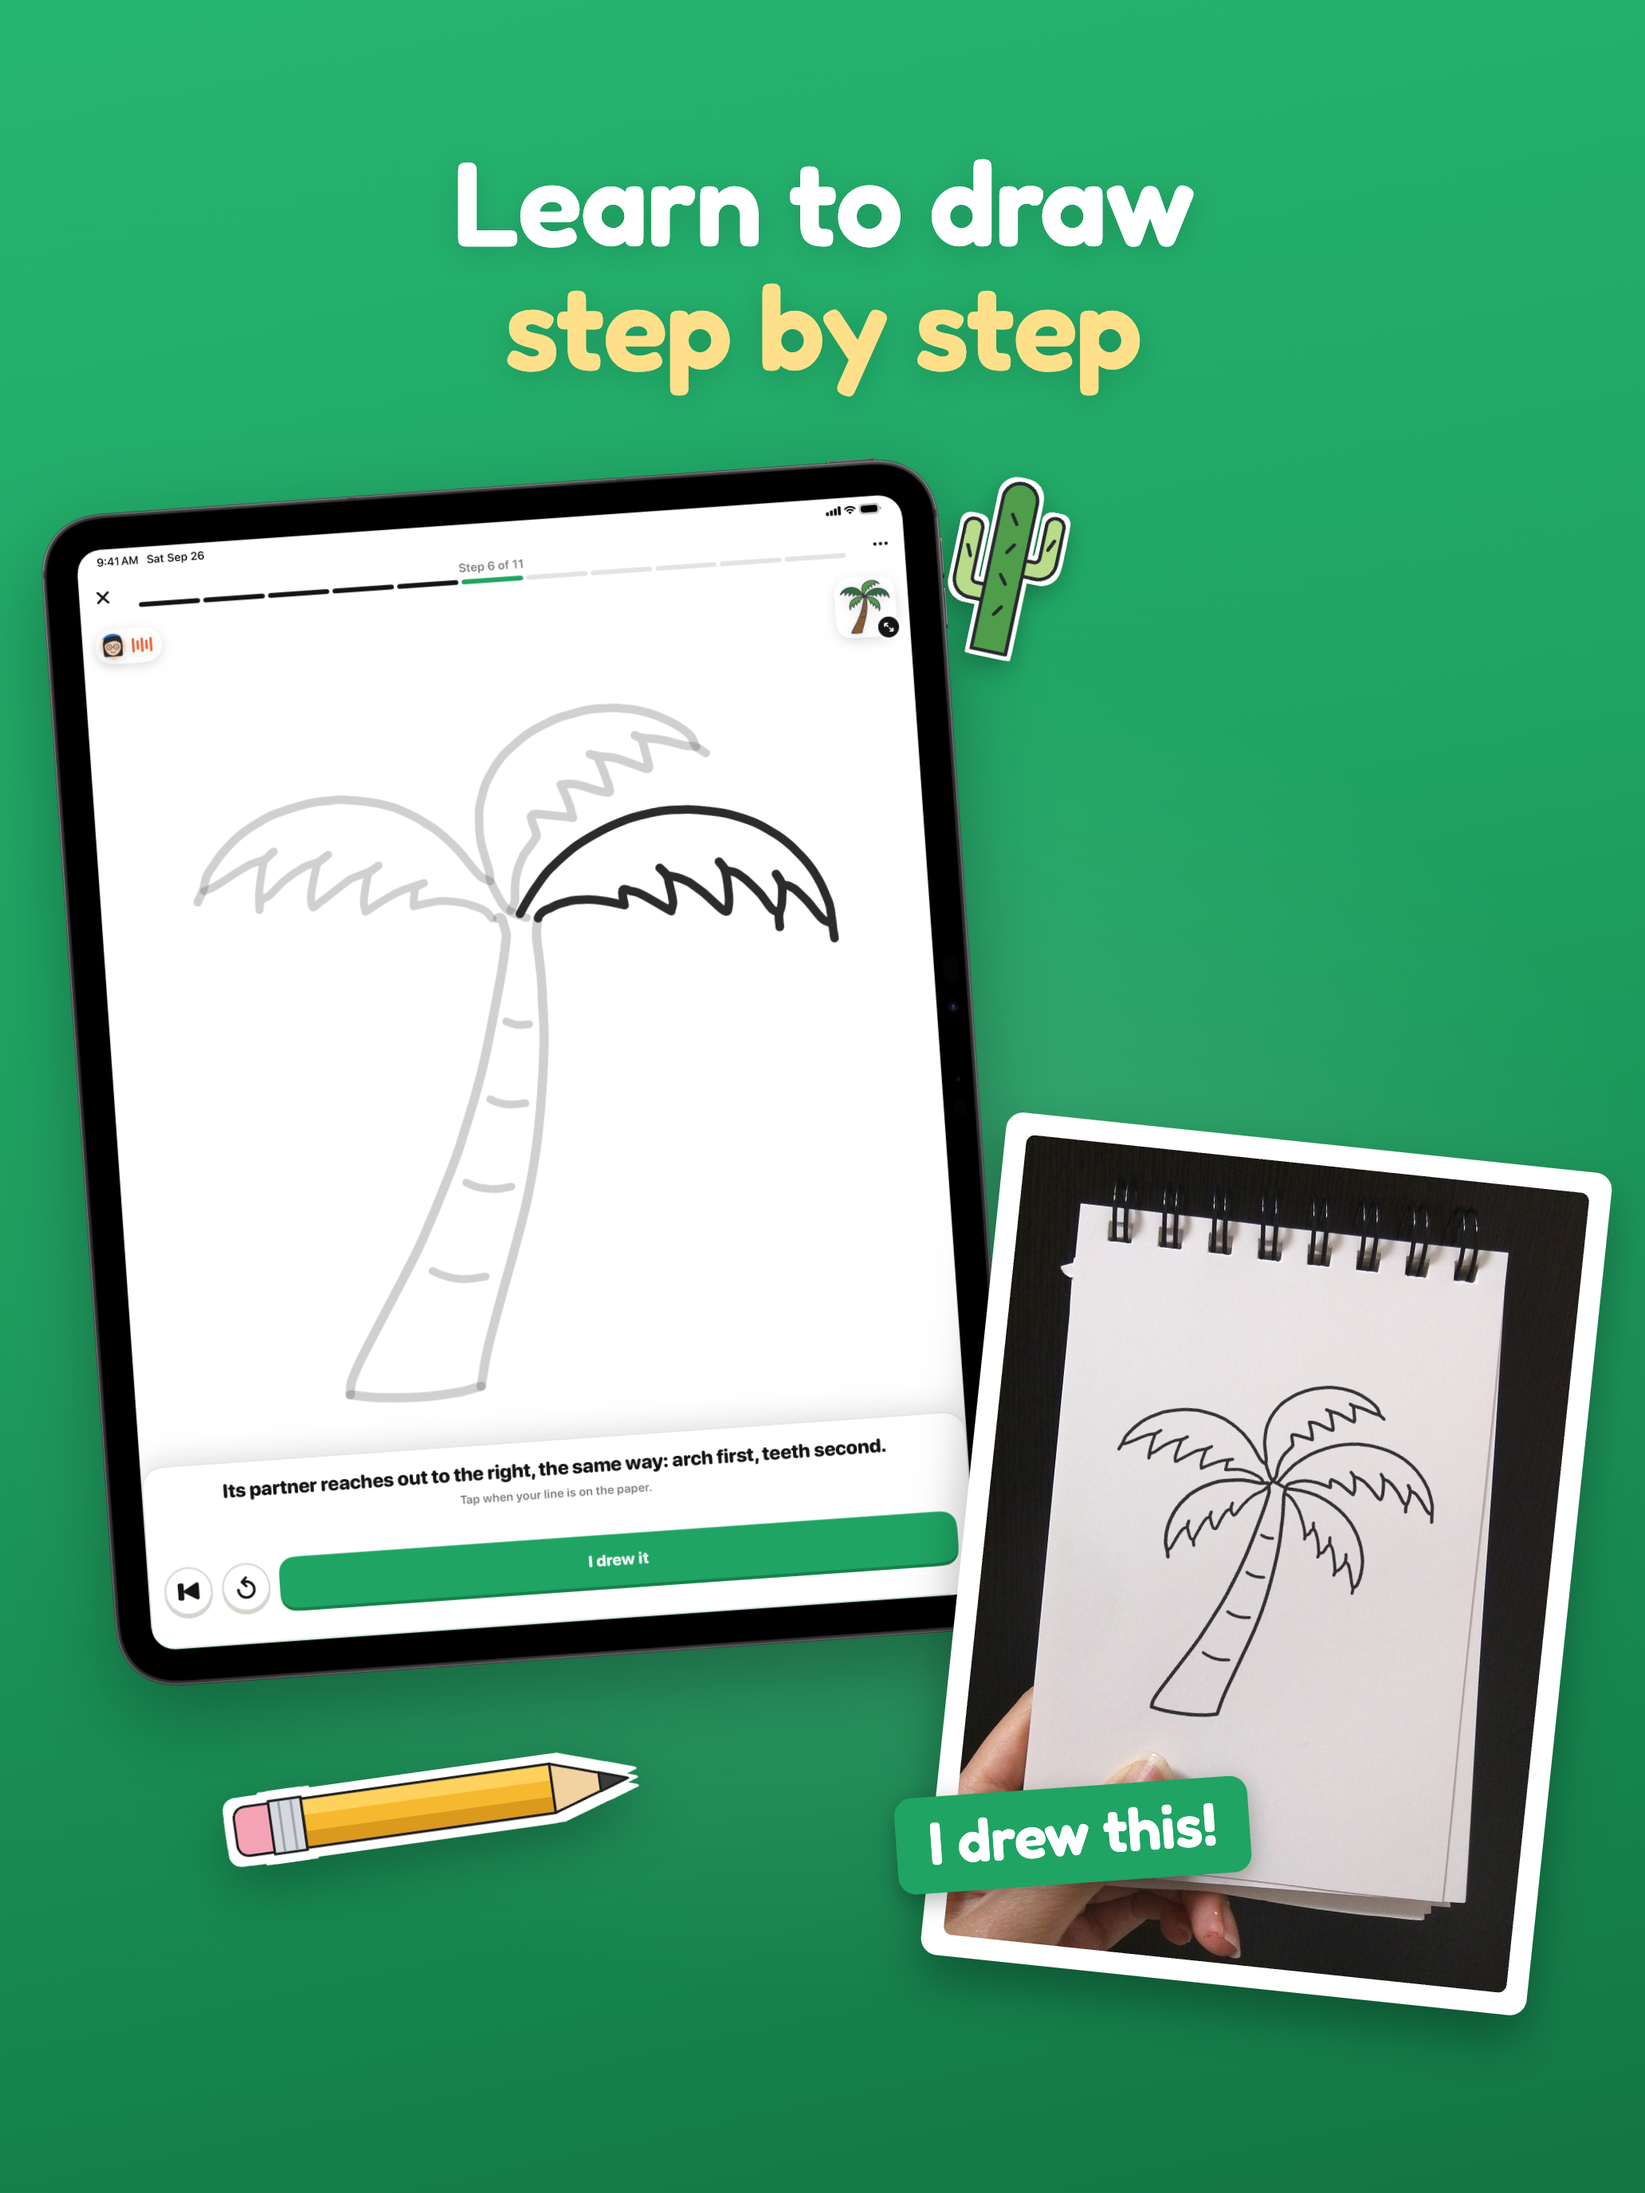
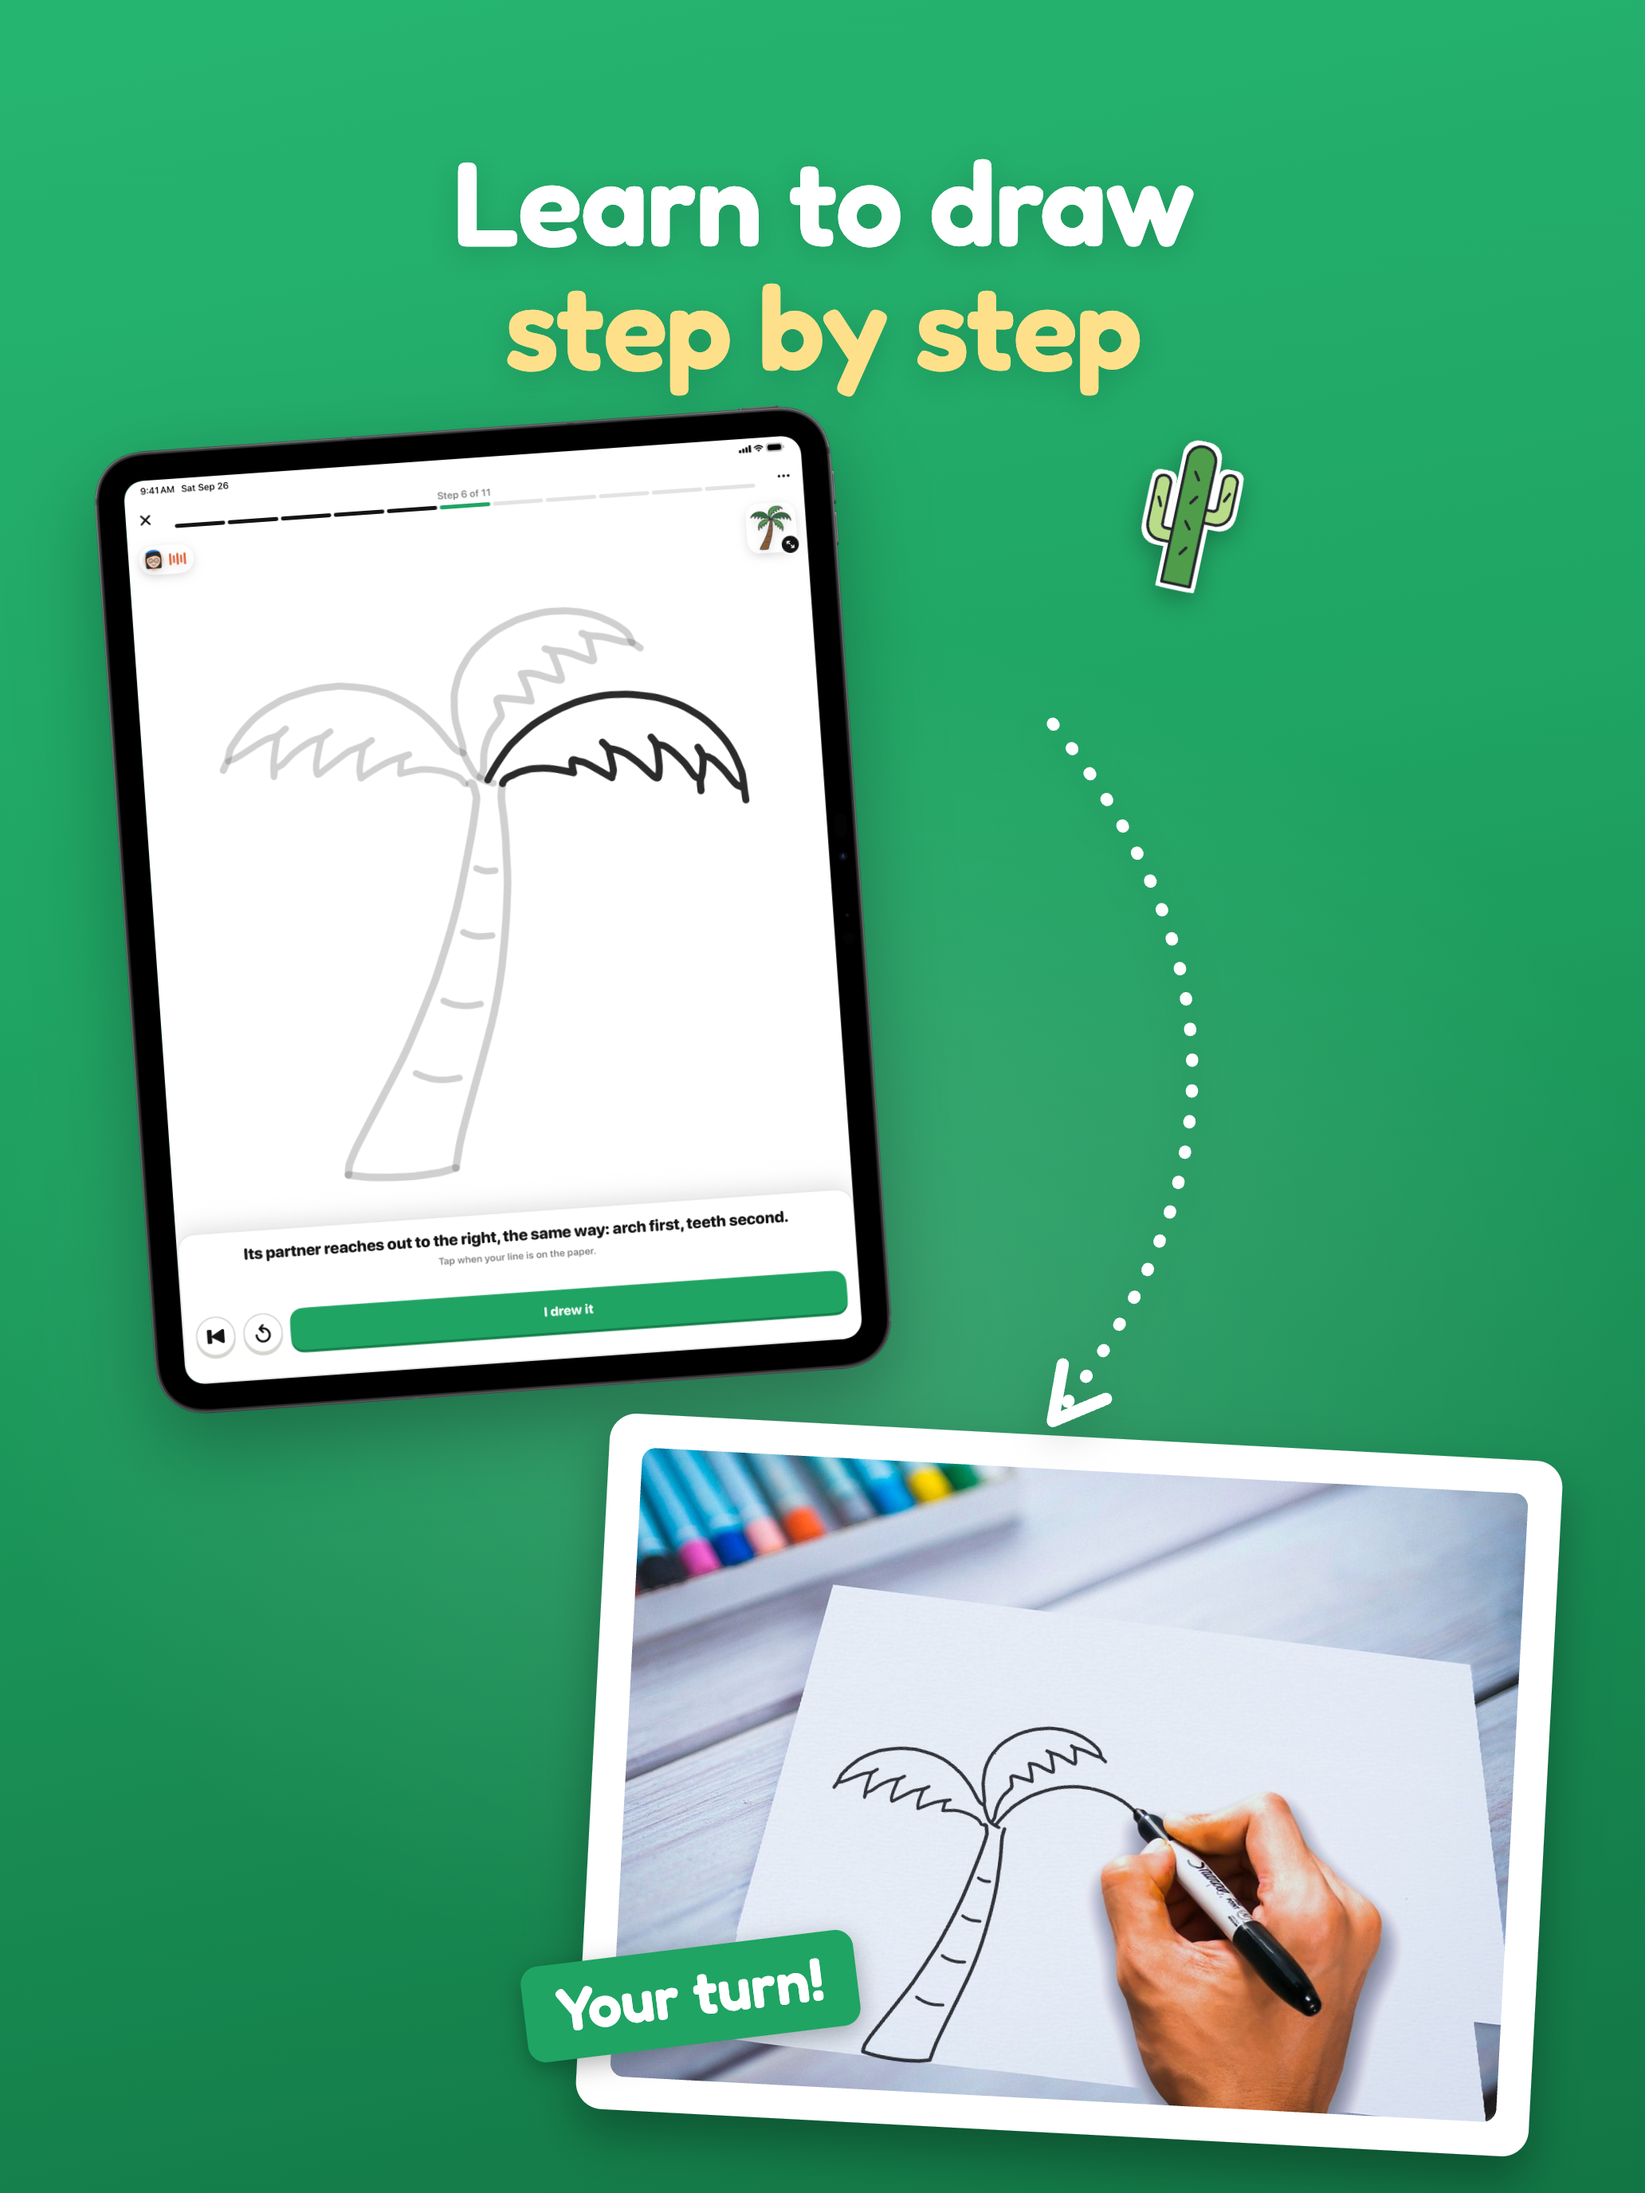
App Store art: the first shot shows a hand drawing the lesson
The print is now a hand with a marker on blank paper, drawing the palm tree as
far as the phone's step 6: the upper-right leaf's arch ends at the marker's
tip, so the phone shows the line and the hand draws it. A doodled arrow leads
from the phone to the paper and the tag reads "Your turn!". shots.html can now
draw a lesson up to a stroke part-way and anchor its end on a point of the
photo. Not uploaded yet: 1.0 is Waiting for Review.

diff --git a/docs/app-store/marketing/shots.html b/docs/app-store/marketing/shots.html
@@ -113,6 +113,7 @@
   const box = drawDevice();
   for (const st of shot.stickers ?? []) drawSticker(st, box);
   if (shot.card) await drawCard(shot.card);
+  if (shot.arrow) drawArrow(shot.arrow);
 
   await document.fonts.ready;
   await Promise.all(waits);
@@ -188,12 +189,28 @@
     const photo = image(card.photo, null, { left: px(-cx * scale), top: px(-cy * scale) });
     waits.push(photo.decode().then(() => { photo.style.width = px(photo.naturalWidth * scale); }));
     const d = card.drawing;
-    const size = d.size * scale;
-    const drawing = el('div', 'drawing', {
-      width: px(size), height: px(size),
-      left: px((d.cx - cx) * scale - size / 2), top: px((d.cy - cy) * scale - size / 2),
-    });
-    drawing.innerHTML = await lineArt(d.tutorial);
+    const art = await lineArt(d);
+    const drawing = el('div', 'drawing');
+    drawing.innerHTML = art.svg;
+    if (d.anchor) {
+      // The end of the line being drawn sits on the pen's tip; `scale` is photo
+      // pixels per lesson unit, and the drawing turns with the page about that point.
+      const unit = d.scale * scale;
+      const tipX = (d.anchor[0] - cx) * scale;
+      const tipY = (d.anchor[1] - cy) * scale;
+      Object.assign(drawing.style, {
+        width: px(art.width * unit), height: px(art.height * unit),
+        left: px(tipX - art.end.x * unit), top: px(tipY - art.end.y * unit),
+        transformOrigin: `${art.end.x * unit}px ${art.end.y * unit}px`,
+        transform: `rotate(${d.rot ?? 0}deg)`,
+      });
+    } else {
+      const size = d.size * scale;
+      Object.assign(drawing.style, {
+        width: px(size), height: px(size),
+        left: px((d.cx - cx) * scale - size / 2), top: px((d.cy - cy) * scale - size / 2),
+      });
+    }
     print.append(photo, drawing);
     node.append(print);
 
@@ -210,20 +227,70 @@
     canvas.append(node);
   }
 
-  // A lesson's pen lines (every step that draws, none that colors), as the
-  // learner leaves them on paper.
-  async function lineArt(id) {
-    const tutorial = await (await fetch(`../../../shared/Tutorials/${id}.json`)).json();
+  // A lesson's pen lines (steps that draw, none that color), as the learner leaves
+  // them on paper: all of them, or with `upTo` ({ step, stroke, t }, step counted
+  // from 1 as the player shows it) the steps before it, its strokes before
+  // `stroke`, and that stroke drawn as far as `t` of its length. `end` is where the
+  // pen is, in lesson units.
+  async function lineArt(d) {
+    const tutorial = await (await fetch(`../../../shared/Tutorials/${d.tutorial}.json`)).json();
     const { width, height } = tutorial.canvas;
-    const paths = tutorial.steps
-      .flatMap((step) => step.strokes ?? [])
-      .map((s) => `<path d="${s.d}" stroke-width="${(s.lineWidth ?? 10) * 0.75}"/>`)
-      .join('');
-    return `<svg viewBox="0 0 ${width} ${height}" xmlns="http://www.w3.org/2000/svg" width="100%" height="100%">
-      <filter id="pen"><feTurbulence type="fractalNoise" baseFrequency="0.9" numOctaves="2" seed="4"/>
-        <feDisplacementMap in="SourceGraphic" scale="3"/></filter>
-      <g fill="none" stroke="#26282b" stroke-linecap="round" stroke-linejoin="round" filter="url(#pen)">${paths}</g>
-    </svg>`;
+    const ns = 'http://www.w3.org/2000/svg';
+    const svg = document.createElementNS(ns, 'svg');
+    svg.setAttribute('viewBox', `0 0 ${width} ${height}`);
+    svg.setAttribute('width', '100%');
+    svg.setAttribute('height', '100%');
+    svg.innerHTML = `<filter id="pen"><feTurbulence type="fractalNoise" baseFrequency="0.9" numOctaves="2" seed="4"/>
+        <feDisplacementMap in="SourceGraphic" scale="3"/></filter>`;
+    const group = document.createElementNS(ns, 'g');
+    Object.entries({ fill: 'none', stroke: '#26282b', 'stroke-linecap': 'round',
+                     'stroke-linejoin': 'round', filter: 'url(#pen)' })
+      .forEach(([k, v]) => group.setAttribute(k, v));
+    svg.append(group);
+    // Measured in the page: a path's length and points need layout.
+    Object.assign(svg.style, { position: 'absolute', visibility: 'hidden', width: '10px', height: '10px' });
+    document.body.append(svg);
+
+    let end = null;
+    tutorial.steps.forEach((step, i) => {
+      (step.strokes ?? []).forEach((stroke, j) => {
+        const upTo = d.upTo;
+        if (upTo && (i + 1 > upTo.step || (i + 1 === upTo.step && j > upTo.stroke))) return;
+        const path = document.createElementNS(ns, 'path');
+        path.setAttribute('d', stroke.d);
+        path.setAttribute('stroke-width', (stroke.lineWidth ?? 10) * 0.75);
+        group.append(path);
+        if (upTo && i + 1 === upTo.step && j === upTo.stroke) {
+          const length = path.getTotalLength();
+          path.setAttribute('stroke-dasharray', `${length * upTo.t} ${length}`);
+          const point = path.getPointAtLength(length * upTo.t);
+          end = { x: point.x, y: point.y };
+        }
+      });
+    });
+    svg.remove();
+    svg.removeAttribute('style');
+    return { svg: svg.outerHTML, width, height, end };
+  }
+
+  // A doodled arrow across the canvas, from one point to another (fractions of the
+  // canvas), bowed to one side by `bend`: white, dashed, with an open head.
+  function drawArrow(a) {
+    const [x1, y1, x2, y2] = [a.from[0] * W, a.from[1] * H, a.to[0] * W, a.to[1] * H];
+    const mx = (x1 + x2) / 2 - (y2 - y1) * (a.bend ?? 0.3);
+    const my = (y1 + y2) / 2 + (x2 - x1) * (a.bend ?? 0.3);
+    const angle = Math.atan2(y2 - my, x2 - mx);
+    const head = W * 0.035;
+    const wing = (side) => `${x2 - head * Math.cos(angle + side * 0.5)},${y2 - head * Math.sin(angle + side * 0.5)}`;
+    const stroke = W * 0.0075;
+    const layer = el('div', 'arrow', { position: 'absolute', inset: '0', zIndex: '3' });
+    layer.innerHTML = `<svg width="${W}" height="${H}" xmlns="http://www.w3.org/2000/svg">
+      <g fill="none" stroke="#fff" stroke-width="${stroke}" stroke-linecap="round" stroke-linejoin="round"
+         style="filter: drop-shadow(0 ${stroke}px ${stroke * 1.5}px rgba(0,0,0,0.18))">
+        <path d="M${x1},${y1} Q${mx},${my} ${x2},${y2}" stroke-dasharray="${stroke * 0.1} ${stroke * 2.4}"/>
+        <path d="M${wing(1)} L${x2},${y2} L${wing(-1)}"/>
+      </g></svg>`;
+    canvas.append(layer);
   }
 
   // A die-cut sticker edge: a white rim a few percent of the sticker's width, then

diff --git a/docs/app-store/marketing/shots.js b/docs/app-store/marketing/shots.js
@@ -12,7 +12,9 @@
 //           frame, so one list suits the iPhone and the iPad; rot is in degrees.
 // card      a photo print laid over the canvas (placed like `device`), cropped to
 //           `crop` (pixels of the photo), with a lesson's pen lines drawn on the
-//           blank page in it and an optional tag.
+//           blank page in it and an optional tag. The drawing is either centred at
+//           cx, cy at `size`, or drawn up to a stroke whose end sits on `anchor`.
+// arrow     a doodled arrow from `from` to `to` (fractions of the canvas).
 
 export const DEVICES = {
   iphone: {
@@ -36,12 +38,15 @@ export const DEVICES = {
   },
 };
 
-// The hands holding a blank sketchpad (Pixabay 1791337, 960 x 1280): the part of
-// the photo a print shows, and where the page is blank enough to draw on.
-const sketchpad = {
-  photo: 'assets/photos/sketchpad-hands.jpg',
-  crop: [110, 200, 760, 1080],
-  drawing: { tutorial: 'palm-tree', cx: 492, cy: 725, size: 480 },
+// A hand drawing with a black marker on blank paper (Pixabay 3709125, 1280 x 784):
+// the part of the photo a print shows, and the marker's tip, in pixels of the photo.
+// The palm tree is drawn as far as the phone's step 6, the upper-right leaf's arch
+// part-way, so the tip sits at the end of the line the phone is showing; `scale` is
+// photo pixels per lesson unit and `rot` turns the drawing with the page.
+const handDrawing = {
+  photo: 'assets/photos/hand-marker.jpg',
+  crop: [230, 60, 1020, 724],
+  drawing: { tutorial: 'palm-tree', upTo: { step: 6, stroke: 0, t: 0.72 }, anchor: [817, 449], scale: 0.42, rot: 4 },
 };
 
 export const SHOTS = [
@@ -49,18 +54,18 @@ export const SHOTS = [
     id: 'learn',
     title: 'Learn to draw<br><em>step by step</em>',
     capture: 'player-awaiting',
-    device: { width: 0.56, x: 0.02, y: 0.205, rot: -5 },
-    card: { ...sketchpad, tag: 'I drew this!', width: 0.44, x: 0.545, y: 0.585, rot: 6 },
+    device: { width: 0.54, x: 0.05, y: 0.19, rot: -5 },
+    card: { ...handDrawing, tag: 'Your turn!', width: 0.86, x: 0.10, y: 0.678, rot: 3 },
+    arrow: { from: [0.66, 0.35], to: [0.66, 0.672], bend: -0.42 },
     stickers: [
-      { name: 'pencil:yellow', x: 0.36, y: 1.075, size: 0.70, rot: -10 },
-      { name: 'cactus', x: 1.04, y: 0.10, size: 0.36, rot: 12 },
+      { name: 'cactus', x: 1.25, y: 0.10, size: 0.34, rot: 12 },
     ],
     ipad: {
-      device: { width: 0.56, x: 0.04, y: 0.215, rot: -4 },
-      card: { ...sketchpad, tag: 'I drew this!', width: 0.37, x: 0.585, y: 0.52, rot: 6 },
+      device: { width: 0.46, x: 0.07, y: 0.19, rot: -4 },
+      card: { ...handDrawing, tag: 'Your turn!', width: 0.58, x: 0.36, y: 0.655, rot: 3 },
+      arrow: { from: [0.64, 0.33], to: [0.64, 0.648], bend: -0.4 },
       stickers: [
-        { name: 'pencil:yellow', x: 0.40, y: 1.11, size: 0.62, rot: -8 },
-        { name: 'cactus', x: 1.02, y: 0.08, size: 0.30, rot: 12 },
+        { name: 'cactus', x: 1.42, y: 0.10, size: 0.30, rot: 12 },
       ],
     },
   },

diff --git a/docs/app-store/marketing/README.md b/docs/app-store/marketing/README.md
@@ -6,7 +6,7 @@ They replace the plain simulator captures in `../screenshots/`.
 
 | # | Headline | Screen (`-STScreen`) |
 |---|---|---|
-| 1 | Learn to draw step by step | `player-awaiting`, with a photo of the palm tree drawn on a real sketchpad |
+| 1 | Learn to draw step by step | `player-awaiting`, with a photo of a hand drawing the same palm tree on paper, the marker at the end of the leaf the phone shows |
 | 2 | Watch a line, then draw it | `preview-default` |
 | 3 | Then add a little color | `player-last` |
 | 4 | 100 lessons on 10 paths | `lessons` |
@@ -16,8 +16,8 @@ They replace the plain simulator captures in `../screenshots/`.
 | 8 | Pick up where you left off | `home-progress` |
 
 Every headline is something the app does today (listing.md: 100 lessons on 10 paths, three levels, five to ten
-minutes a lesson, the sketchbook). The drawing on the sketchpad in #1 is the palm tree lesson's own pen strokes,
-read from `shared/Tutorials/palm-tree.json`, so it is exactly what a learner draws.
+minutes a lesson, the sketchbook). The drawing on the paper in #1 is the palm tree lesson's own pen strokes,
+read from `shared/Tutorials/palm-tree.json`, so it is exactly what a learner draws: steps 1 to 5 and step 6's arch part-way, ending at the marker's tip (`handDrawing` in `shots.js`).
 
 ## Files
 
@@ -28,7 +28,7 @@ render.mjs    saves them all: node docs/app-store/marketing/render.mjs [iphone|i
 capture.sh    takes the raw screens from the simulator through the debug harness
 captures/     the raw screens, per device
 frames/       Apple's device frames (not in git, see below)
-assets/       Fredoka (SIL OFL, assets/fonts/OFL.txt) and the sketchpad photo
+assets/       Fredoka (SIL OFL, assets/fonts/OFL.txt) and the hand-drawing photo
 out/          the upload files: RGB PNG, no alpha
 ```
 
@@ -72,6 +72,6 @@ and never reach Superwall. On these simulators the iPad app opened full screen, 
 
 ## Credits
 
-- Hands holding a sketchpad: Kai_NITEandDAY on Pixabay, https://pixabay.com/photos/hand-note-airplane-sketchbook-1791337/
+- Hand drawing with a marker: Mohamed_hassan on Pixabay, https://pixabay.com/photos/writing-hand-write-pen-handwriting-3709125/
   (Pixabay Content License). No face is shown.
 - Fredoka: The Fredoka Project Authors, SIL Open Font License 1.1.
